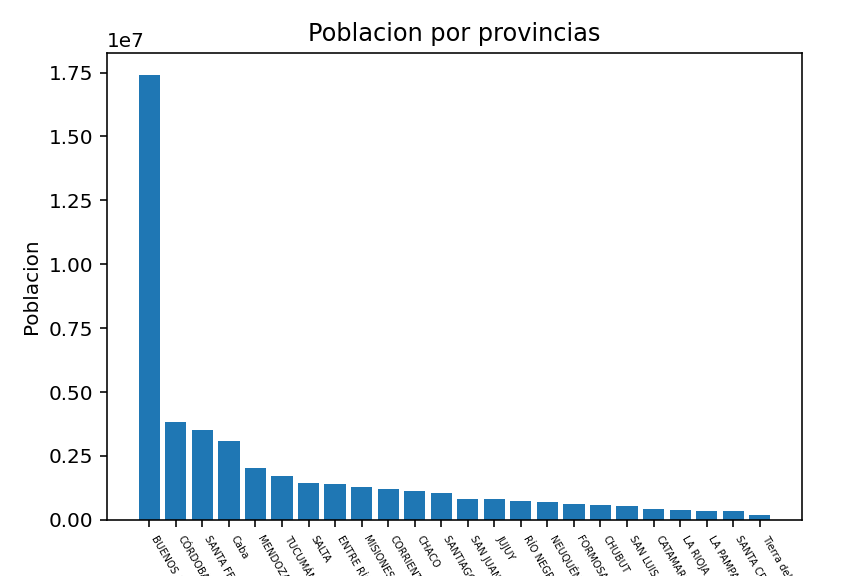
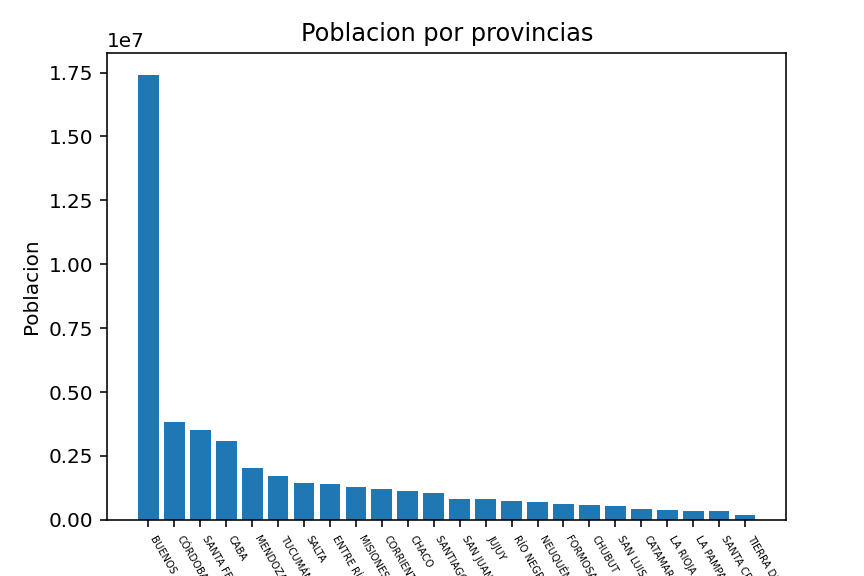
ultimo

Changed region(s): [[0.1562, 0.0938, 0.9375, 1.0], [0.3438, 0.0312, 0.6875, 0.0938]]

diff --git a/tp1.py b/tp1.py
@@ -839,8 +839,8 @@ poblacion_por_provincia_con_nombre = dd.sql("""
 
 
 poblacion_por_provincia_con_nombre["Provincia"] = poblacion_por_provincia_con_nombre["Provincia"].replace({
-    "TIERRA DEL FUEGO, ANTÁRTIDA E ISLAS DEL ATLÁNTICO SUR": "Tierra del Fuego",
-    "CIUDAD AUTÓNOMA DE BUENOS AIRES": "Caba"
+    "TIERRA DEL FUEGO, ANTÁRTIDA E ISLAS DEL ATLÁNTICO SUR": "TIERRA DEL FUEGO",
+    "CIUDAD AUTÓNOMA DE BUENOS AIRES": "CABA"
 })
 
 fig, ax = plt.subplots()
@@ -860,7 +860,7 @@ ax.set_ylabel('Poblacion', fontsize='medium')
 plt.tight_layout()
 plt.xticks(rotation=-60, fontsize=5, ha = 'left')
             
-fig.savefig('población por provincia')
+fig.savefig('población por provincia.')
 
 #%%
 """------------------------------------------Visualiación iii)----------------------------------------------------------"""
